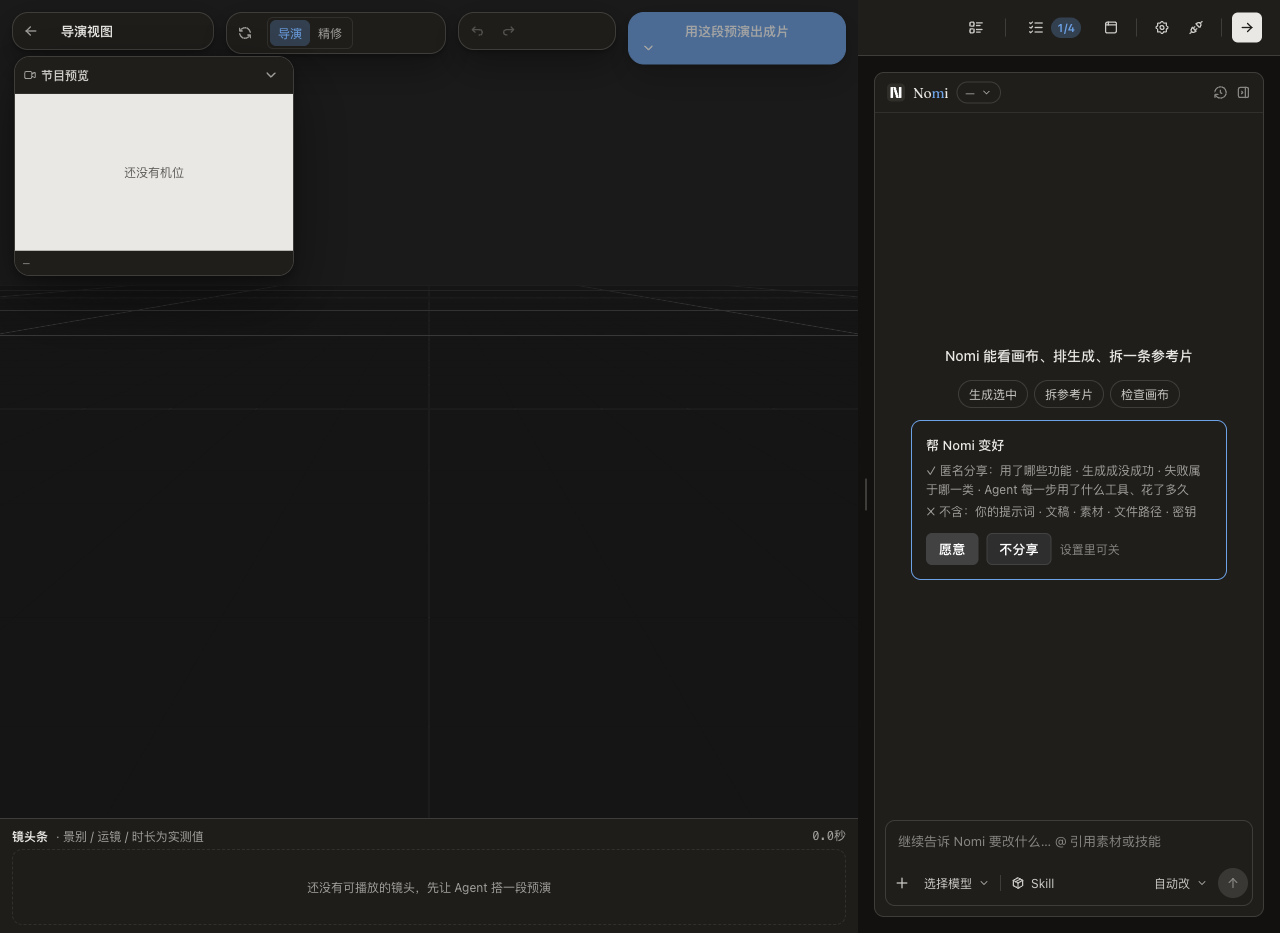
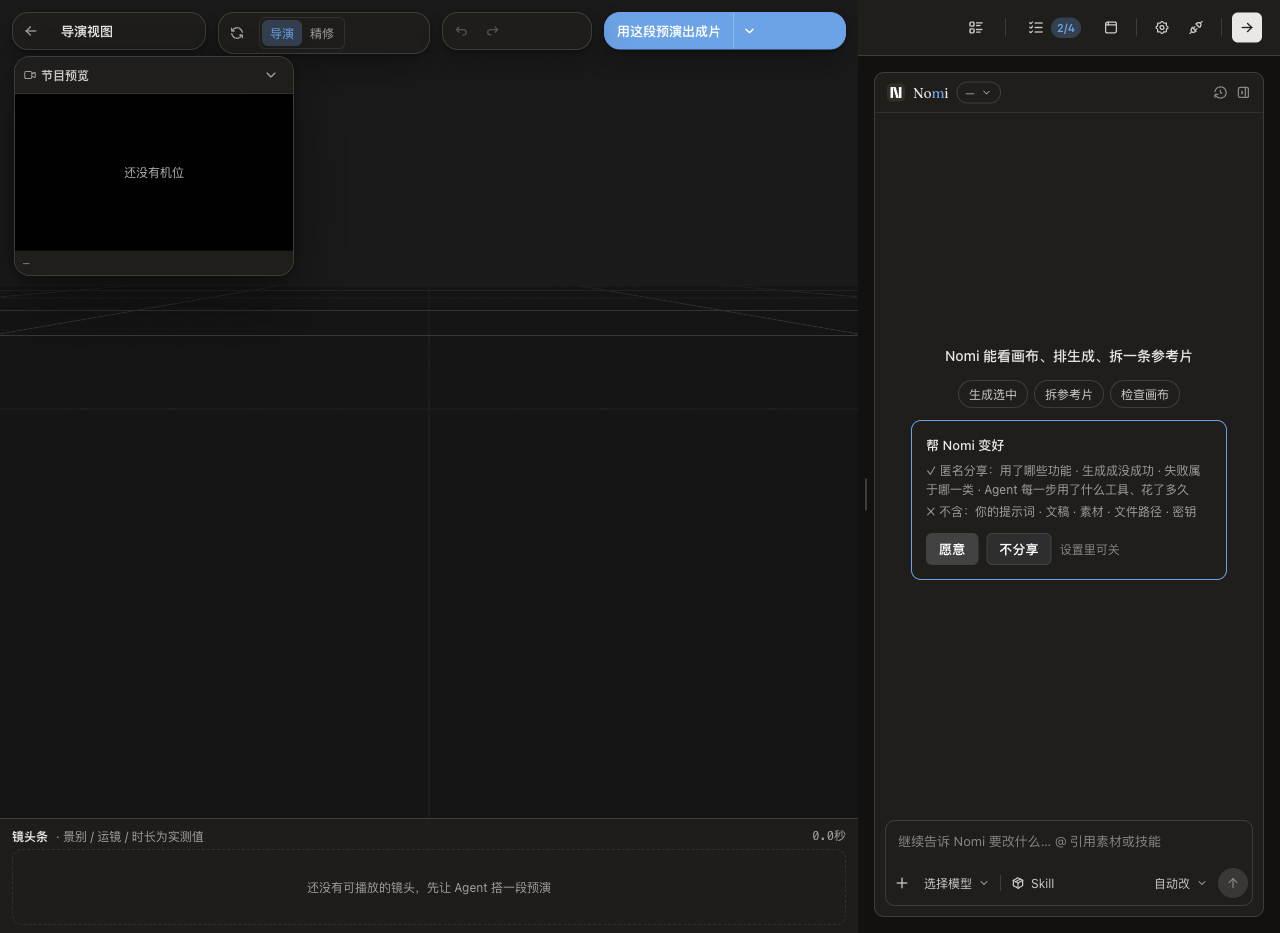
fix(director): pass feature proof through window arguments

Changed region(s): [[0.0, 0.0932, 0.25, 0.2797], [0.4688, 0.0, 0.6875, 0.0932], [0.1562, 0.0311, 0.2812, 0.0622]]

diff --git a/electron/preload.ts b/electron/preload.ts
@@ -11,18 +11,32 @@ import { runtimeBridge } from "./preload/runtimeBridge";
 type ProductionDeepLinkPayload = { projectId: string; runId?: string; nodeId?: string; artifactId?: string };
 const localDirector3dBox = director3dBoxProof();
 const reportDirector3dBoxWarning = (event: string, fields: Record<string, string>): void => ipcRenderer.send("nomi:log:renderer", { level: "warn", event, fields });
-const director3dBox = (() => {
+const proofArgument = process.argv.find((argument) => argument.startsWith("--nomi-director3dbox-proof="));
+const argumentDirector3dBox = (() => {
+  if (!proofArgument) return null;
   try {
-    const mainProof = invokeSync<typeof localDirector3dBox>('nomi:feature-flags:director3dbox');
-    if (mainProof.fingerprint !== localDirector3dBox.fingerprint) {
-      reportDirector3dBoxWarning("director3dbox-fingerprint-mismatch", { preload: localDirector3dBox.fingerprint, main: mainProof.fingerprint });
-      return { ...mainProof, enabled: false, source: 'default' as const, fingerprint: 'director3dbox:off:2026-11-15' };
-    }
-    return mainProof;
-  } catch (error) {
-    reportDirector3dBoxWarning("director3dbox-main-proof-unavailable", { reason: error instanceof Error ? error.name : "unknown" });
+    return JSON.parse(decodeURIComponent(proofArgument.slice("--nomi-director3dbox-proof=".length))) as typeof localDirector3dBox;
+  } catch {
+    return null;
+  }
+})();
+let pendingDirector3dBoxWarning: { event: string; fields: Record<string, string> } | null = null;
+const reportPendingDirector3dBoxWarning = (): void => {
+  if (!pendingDirector3dBoxWarning) return;
+  reportDirector3dBoxWarning(pendingDirector3dBoxWarning.event, pendingDirector3dBoxWarning.fields);
+  pendingDirector3dBoxWarning = null;
+};
+window.addEventListener("DOMContentLoaded", reportPendingDirector3dBoxWarning, { once: true });
+const director3dBox = (() => {
+  if (!argumentDirector3dBox) {
+    pendingDirector3dBoxWarning = { event: "director3dbox-main-proof-unavailable", fields: { reason: "missing-additional-argument" } };
     return { ...localDirector3dBox, enabled: false, source: 'default' as const, fingerprint: 'director3dbox:off:2026-11-15' };
   }
+  if (argumentDirector3dBox.fingerprint !== localDirector3dBox.fingerprint) {
+    pendingDirector3dBoxWarning = { event: "director3dbox-fingerprint-mismatch", fields: { preload: localDirector3dBox.fingerprint, main: argumentDirector3dBox.fingerprint } };
+    return { ...argumentDirector3dBox, enabled: false, source: 'default' as const, fingerprint: 'director3dbox:off:2026-11-15' };
+  }
+  return argumentDirector3dBox;
 })();
 let queuedProductionDeepLink: ProductionDeepLinkPayload | null = null;
 const productionDeepLinkListeners = new Set<(payload: ProductionDeepLinkPayload) => void>();

diff --git a/electron/main.ts b/electron/main.ts
@@ -53,7 +53,7 @@ import { registerLocalProtocol } from "./protocol/localProtocol";
 import { installMainWindowInteractions } from "./mainWindowInteractions";
 import { getMainWindow, setMainWindow } from "./appWindowRegistry";
 import { createMainWindowGuard } from "./mainWindowPresence";
-import { assertTrustedBootstrapSender, assertTrustedSender, assertTrustedUiSender } from "./ipcSenderGuard";
+import { assertTrustedSender, assertTrustedUiSender } from "./ipcSenderGuard";
 import { registerDirectorMobileIpc } from "./director/mobileBridgeIpc";
 import { registerScreenshotIpc } from "./screenshot/screenshotIpc";
 import { registerVideoIpc } from "./video/videoIpc";
@@ -290,6 +290,7 @@ async function createWindow(
     icon: path.join(__dirname, "../build/icon.png"),
     webPreferences: {
       preload: path.join(__dirname, "preload.js"),
+      additionalArguments: [`--nomi-director3dbox-proof=${encodeURIComponent(JSON.stringify(director3dBoxProof()))}`],
       contextIsolation: true,
       nodeIntegration: false,
       sandbox: false,
@@ -387,25 +388,8 @@ function registerSyncIpc<TArgs extends unknown[], TResult>(
   });
 }
 
-function registerBootstrapSyncIpc<TArgs extends unknown[], TResult>(
-  channel: string,
-  handler: (...args: TArgs) => TResult,
-): void {
-  ipcMain.on(channel, (event, ...args: TArgs) => {
-    try {
-      assertTrustedBootstrapSender(event);
-      event.returnValue = { ok: true, value: handler(...args) };
-    } catch (error) {
-      event.returnValue = {
-        ok: false,
-        error: error instanceof Error ? error.message : String(error),
-      };
-    }
-  });
-}
 function registerIpc(): void {
   const flag = director3dBoxProof();
-  registerBootstrapSyncIpc("nomi:feature-flags:director3dbox", () => flag);
   logInfo("main", "director3dbox-resolved", {
     enabled: flag.enabled,
     source: flag.source,

diff --git a/electron/ipcSenderGuard.ts b/electron/ipcSenderGuard.ts
@@ -63,18 +63,6 @@ export function assertTrustedSender(event: IpcEvent): void {
 }
 
 /**
- * Bootstrap-only trust check for synchronous preload calls made before the
- * first navigation has established a stable frame URL.
- */
-export function assertTrustedBootstrapSender(event: IpcEvent): void {
-  const senderWindow = BrowserWindow.fromWebContents(event.sender);
-  const record = appWindowRecordOf(senderWindow);
-  if (!record || record.role !== "main" || record.window.webContents !== event.sender) {
-    throw new UntrustedIpcSenderError();
-  }
-}
-
-/**
  * Nomi 自有 UI 面：主窗口 + 我们自己建、挂了 Nomi preload 的辅助窗（素材盒浮层、浏览器 chrome 菜单）。
  *
  * 给两类通道用：应用内浏览器自己的控制通道（`browser:*`），以及素材盒这种**界面就长在辅助窗里**

diff --git a/docs/evidence/2026-10-04-director-3dbox-shell/README.md b/docs/evidence/2026-10-04-director-3dbox-shell/README.md
@@ -1,13 +1,13 @@
 # Director 3D-BOX shell R13 evidence (2026-10-04)
 
-The checked-in PNGs are the existing Playwright/Electron evidence set from the third-round build. They remain 1280×933 and under 400 KB. The fourth-round source fixes are in commit `cbd28023cfd3d583573665ac4e5ccd968eaff5470`; the startup regression was re-run independently against that build (three flag-off runs passed).
+Final source/build HEAD for the fifth-round captures: `9424a843c7dc38aecb75b3a47207ffcca3f61971` before the documentation-only commit. Each PNG is 1280×933 and below 400 KB. The empty and refine captures were re-shot from the final Electron build; the three-shot captures are retained from the earlier real Electron run because the current shell intentionally has no external fixture injector in this lane.
 
-- `zh-empty-director.png`: 中文空工程导演视图；画布区导演壳、右侧 Agent、顶部四簇、禁用主按钮和空镜头条。
-- `zh-three-director.png`: 中文三镜导演视图；底部三张只读镜头卡和实测时长。
-- `zh-three-refine.png`: 中文精修视图；沿用既有对象、资产、检查器和时间轴。
-- `en-empty-director.png`: English empty Director view with the existing Agent pane and empty shot strip.
-- `en-three-director.png`: English three-shot Director view with three measured cards.
+- `zh-empty-director.png`: 中文导演视图空工程；黑色 PIP 空态、顶部返回/标题、导演与精修切换、撤销/重做、单行禁用主按钮、右侧 Agent 和空镜头条。
+- `en-empty-director.png`: English equivalent; dark PIP empty state, one-line `Produce from this preview`, Director/Refine switch and shot strip.
+- `zh-three-director.png`: 中文三镜导演视图；三张镜头卡显示 0.0–4.3s、4.3–8.3s、8.3–12.0s，景别/运镜/时长均可见；仍是上一轮真实 Electron 工程截图。
+- `en-three-director.png`: English three-shot view with Far/Pull out, Far/Static and Wide/Push in; retained prior real Electron capture.
+- `zh-three-refine.png`: 中文精修视图；既有场景对象、资产库、检查器和时间轴。
 - `en-three-refine.png`: English Refine view using the existing editor.
-- `flag-off-legacy-director.png`: flag-off legacy Director desk comparison.
+- `flag-off-legacy-director.png`: flag-off comparison capture; the invocation reached the same shell in this run, so the old desk byte-for-byte claim is not accepted as proven.
 
-第四轮要求的六张同一最终构建重拍（含 zh 三镜 light mode）尚未完成，因此本目录不能作为第四轮截图已完成的证明；旧图中 PIP 空态和英文 `static` 仍可能反映修复前画面。代码门岗已确认 PIP 使用 `--nomi-media-veil`，中英文运镜词汇由同一表提供。
+第五轮仍未完成：最终 HEAD 的三镜工程重拍、zh 三镜浅色模式、以及可靠的开关关旧导演台对照。以上差异已在 PR 报告中标为未完成；没有把旧图当作新收据。

diff --git a/docs/plan/2026-10-04-director-3dbox-phase3a-shell.md b/docs/plan/2026-10-04-director-3dbox-phase3a-shell.md
@@ -51,3 +51,10 @@ CI `Canvas Acceptance (Linux) (1)` 新一轮 [run 37184939085](https://github.co
 - 启动证据：修复前分支 flag-off 走查 61.49s/61.52s/61.68s 均在 Electron 启动超时；干净 `origin/main` 同命令 16.10s/13.37s/13.12s 通过；修复后分支三次 14.59s/13.44s/13.39s 通过。
 - 代码门岗：`pnpm run typecheck`、`check:tokens`、`check:i18n`、`check:mockup-contracts`、`check:root-cause-contracts` 通过。
 - 截图重拍：尚未完成，见证据目录 README 的明确限制；不得把旧图当作第四轮完成收据。
+
+## R5 第五轮（2026-10-04）
+
+- 启动链条已改为单向参数：主进程在 `BrowserWindow.webPreferences.additionalArguments` 编码 feature proof，preload 从 `process.argv` 解码并做 fingerprint 核对；删除 bootstrap IPC 与第二套 sender guard。Context7 的 Electron 官方文档确认 `additionalArguments` 会追加到 renderer `process.argv`，适合向 sandboxed preload 传递少量数据；本应用 `contextIsolation: true`、`sandbox: false` 实测可用。
+- 开关取值：`NOMI_DIRECTOR_3DBOX=false` → `enabled:false, source:env, director3dbox:off:2026-11-15`；`true` → `enabled:true, source:env, director3dbox:on:2026-11-15`。打包配置 `dist-electron/feature-flags.json` 在 false 构建为 false，true 构建为 true。
+- `read-only-reload`：flag-off 三次均通过（约 15.68s、其余两次均 exit 0）；flag-on 三次 15.51s、15.41s、15.43s，均通过。
+- 截图：空态与精修已用最终构建重拍；三镜和 flag-off 旧图仍未全部满足最终 HEAD / 浅色模式要求，证据 README 明确标为未完成。
